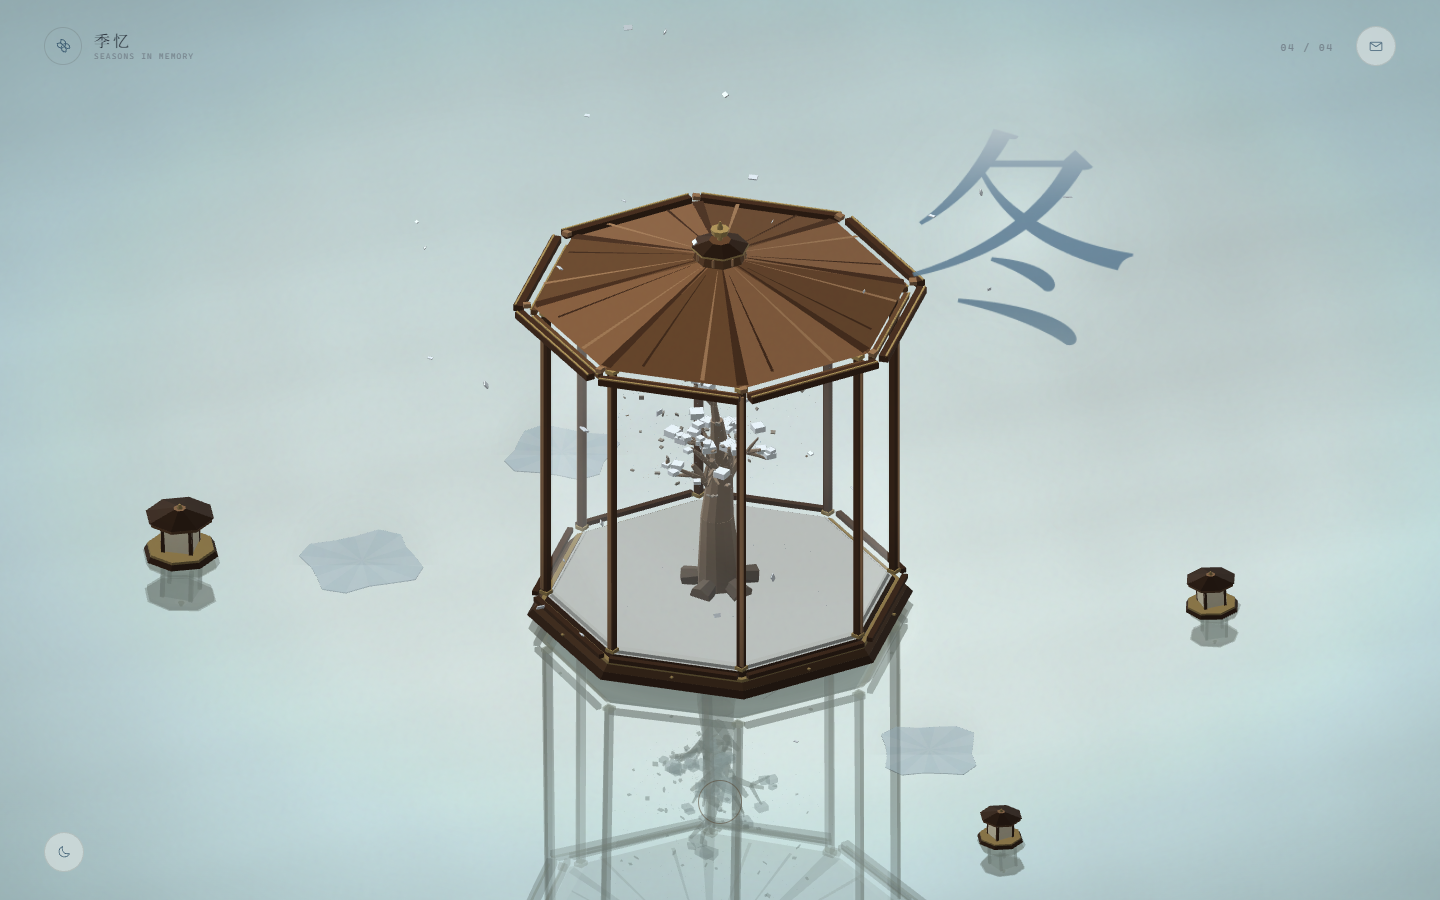
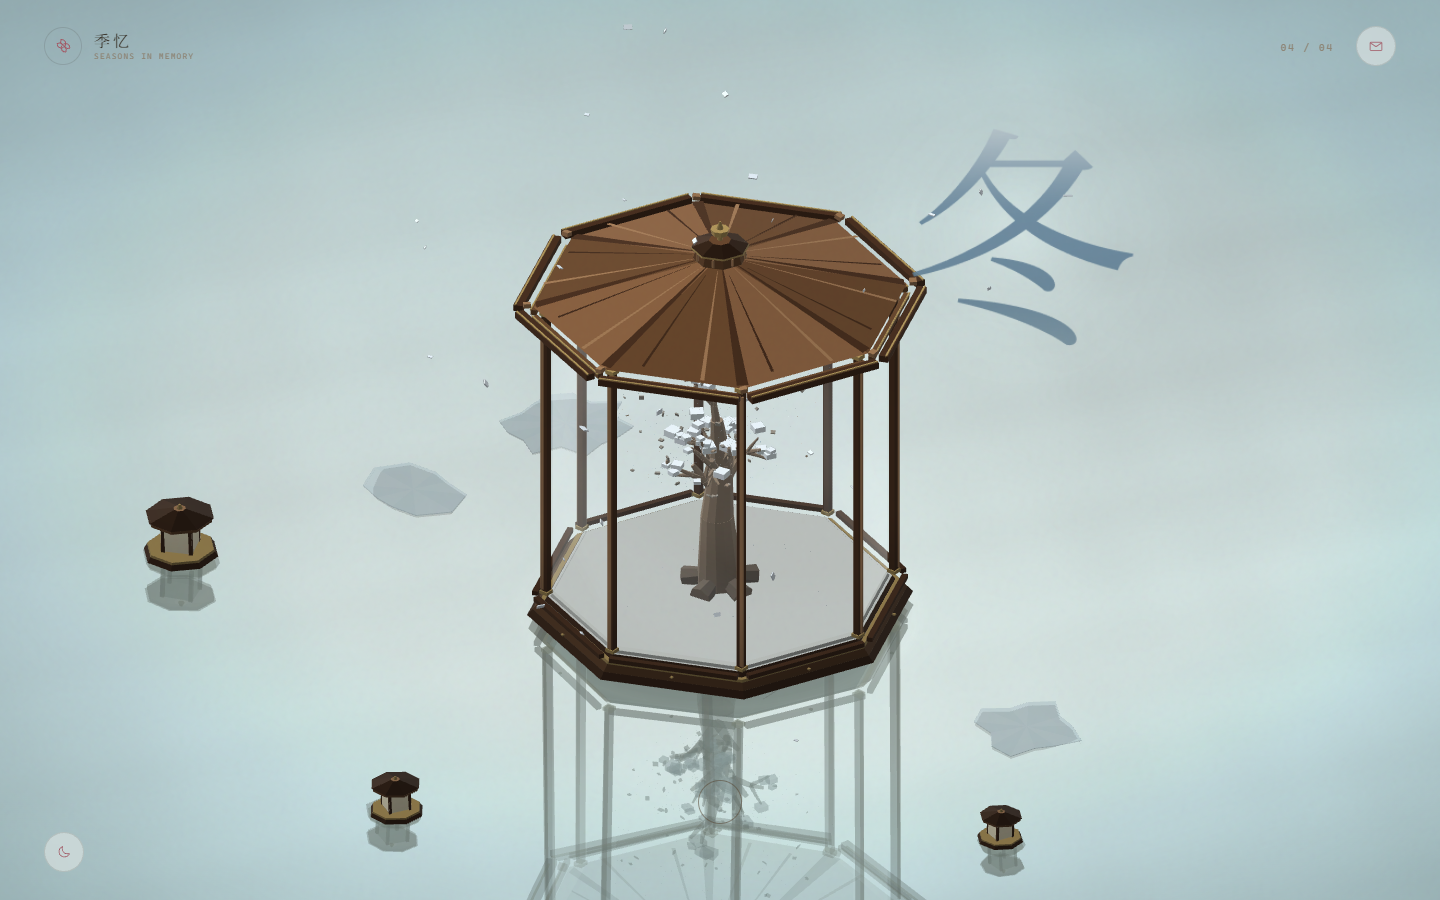
季忆 · 花瓣同形投影、枫叶去黑圈、浮冰变体与涟漪

diff --git a/assets/js/world.js b/assets/js/world.js
@@ -1,4 +1,4 @@
-/* 季忆 — 场景的几何、材质与季节状态 */
+/* 季忆 — 场景的几何、材质与季节状态 */
 (function () {
   'use strict';
   const S4 = window.S4;
@@ -595,15 +595,15 @@
     return g;
   }
 
-  function buildIcePatch() {
+  function buildIcePatch(v = 0) {
     const g = Geo();
     const center = [0, 0.018, 0];
     const bottom = [0, 0.002, 0];
-    const N = 16;
+    const N = 10 + v * 3;
     const pts = [];
     for (let i = 0; i < N; i++) {
       const a = (i / N) * TAU;
-      const r = 0.55 + 0.09 * Math.sin(i * 1.6 + 0.5);
+      const r = (0.46 + 0.08 * v) + 0.12 * Math.sin(i * (1.2 + v * 0.7) + 0.5 + v * 1.7);
       pts.push([Math.cos(a) * r, 0.012, Math.sin(a) * r]);
     }
     const cols = [[0.82, 0.9, 0.92], [0.9, 0.95, 0.96]];
@@ -711,11 +711,6 @@
       pushTri(g, bottom, bot[j], bot[i], [0, -1, 0], [0.48, 0.3, 0.17]);
       pushTri(g, top[i], top[j], bot[j], [0, 0.3, 1], [0.58, 0.36, 0.2]);
       pushTri(g, top[i], bot[j], bot[i], [0, 0.3, 1], [0.58, 0.36, 0.2]);
-    }
-    for (let k = 0; k < 5; k++) {
-      const a = order[k];
-      pushTri(g, center, [Math.cos(a - 0.13) * 0.36, 0.018, Math.sin(a - 0.13) * 0.36], [Math.cos(a) * 0.46, 0.018, Math.sin(a) * 0.46], [0, 1, 0], [0.52, 0.32, 0.17]);
-      pushTri(g, center, [Math.cos(a) * 0.46, 0.018, Math.sin(a) * 0.46], [Math.cos(a + 0.13) * 0.36, 0.018, Math.sin(a + 0.13) * 0.36], [0, 1, 0], [0.52, 0.32, 0.17]);
     }
     addBox(g, 0, 0.006, -0.3, 0.018, 0.008, 0.2, hexToRgb('#6e4a2c'), 0, 0);
     return g;
@@ -1002,7 +997,7 @@
     ];
     const lotusLeafMesh = renderer.makeMesh(buildLotusLeaf());
     const mapleMeshes = [renderer.makeMesh(buildMapleLeaf(0)), renderer.makeMesh(buildMapleLeaf(1))];
-    const iceMesh = renderer.makeMesh(buildIcePatch());
+    const iceMeshes = [renderer.makeMesh(buildIcePatch(0)), renderer.makeMesh(buildIcePatch(1)), renderer.makeMesh(buildIcePatch(2))];
     const floatPetalMeshes = [renderer.makeMesh(buildFloatPetal(0)), renderer.makeMesh(buildFloatPetal(1))];
     const floatLeafMesh = renderer.makeMesh(buildFloatLeaf());
     const blossomMesh = renderer.makeMesh(buildBlossom());
@@ -1618,14 +1613,11 @@
           const pitch = 0.035 * Math.sin(wt * 0.55 + di * 1.3);
           const roll = 0.045 * Math.cos(wt * 0.43 + di * 1.1);
           m4.compose(matA, x, y + bob, z, d.rot + sway, pitch, roll, sc, sc, sc);
-          renderer.setDepth(false, true);
-          m4.billboard(matD, camera.right, camera.up, camera.back, [x, 0.006, z], 0, sc * 1.5, sc * 1.5);
-          renderer.drawSprite(tex.shadow, matD, [0.1, 0.1, 0.08], 0.085 * w, 'normal');
-          renderer.setDepth(true, true);
-          let mesh = iceMesh;
+
+          let mesh = iceMeshes[di % 3];
           let tint = [0.8, 0.9, 0.96];
           let mix = 0.35;
-          let op = w * 0.5 * ease;
+          let op = w * 0.34 * ease;
           if (d.t === 'blossom') {
             mesh = blossomMesh; tint = d.tint; mix = 1; op = w * 0.95 * ease;
           } else if (d.t === 'float') {
@@ -1637,6 +1629,10 @@
           } else if (d.t === 'maple') {
             mesh = mapleMeshes[di % 2]; tint = d.tint; mix = 0.5; op = w * 0.94 * ease;
           }
+          renderer.setDepth(false, true);
+          m4.compose(matD, x, 0.006, z, d.rot + sway, pitch, roll, sc * 0.98, sc * 0.98, sc * 0.98);
+          renderer.drawMesh(mesh, matD, { tint: [0.14, 0.11, 0.1], tintMix: 1, opacity: 0.16 * w });
+          renderer.setDepth(true, true);
           renderer.drawMesh(mesh, matA, { tint, tintMix: mix, opacity: op });
         }
       };
@@ -1831,5 +1827,8 @@
   S4.createWorld = createWorld;
   S4.PALETTES = PALETTES;
 })();
+
+
+
 
 

diff --git a/assets/js/gl.js b/assets/js/gl.js
@@ -710,7 +710,7 @@ void main() {
       gl.uniform2fv(water.u('uRippleCenter'), colors.rippleCenter);
       gl.uniform1f(water.u('uRippleAge'), colors.rippleAge);
       gl.uniform1f(water.u('uRippleStrength'), colors.rippleStrength);
-      gl.uniform4fv(water.u('uLandRipples'), colors.landRipples || new Float32Array(12));
+      gl.uniform4fv(water.u('uLandRipples[0]'), colors.landRipples || new Float32Array(12));
       gl.bindVertexArray(quadVao);
       setBlend('normal');
       gl.enable(gl.DEPTH_TEST);
